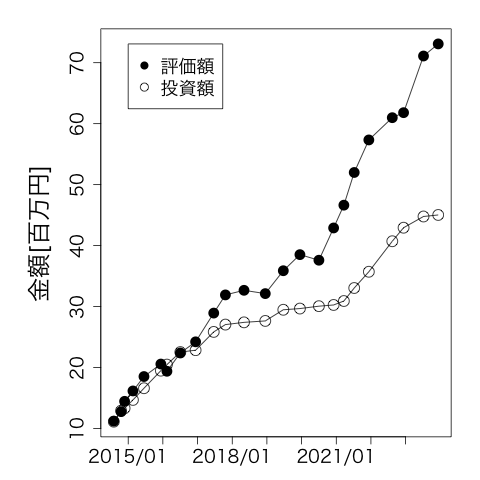
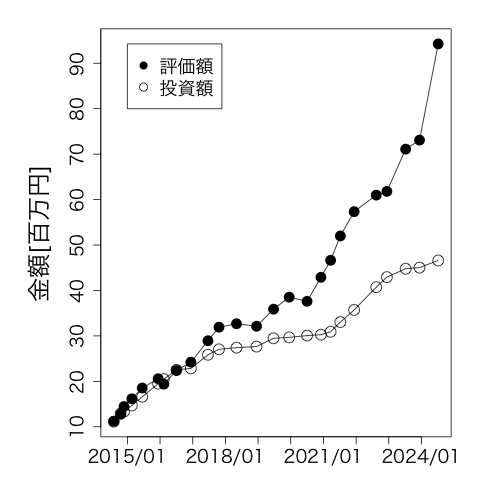
update

diff --git a/investment_return.md b/investment_return.md
@@ -36,3 +36,4 @@ permalink: /investment_return/
 12/11/2022|42,937,345|61,805,704|18,868,359|43.94%
 7/9/2023|44,778,512|71,096,975|26,318,463  |58.77%
 12/11/2023|45,028,659|73,081,564|28,052,905|62.30%
+7/7/2024/|46,599,379|94,250,907|47,651,528|102.26%
